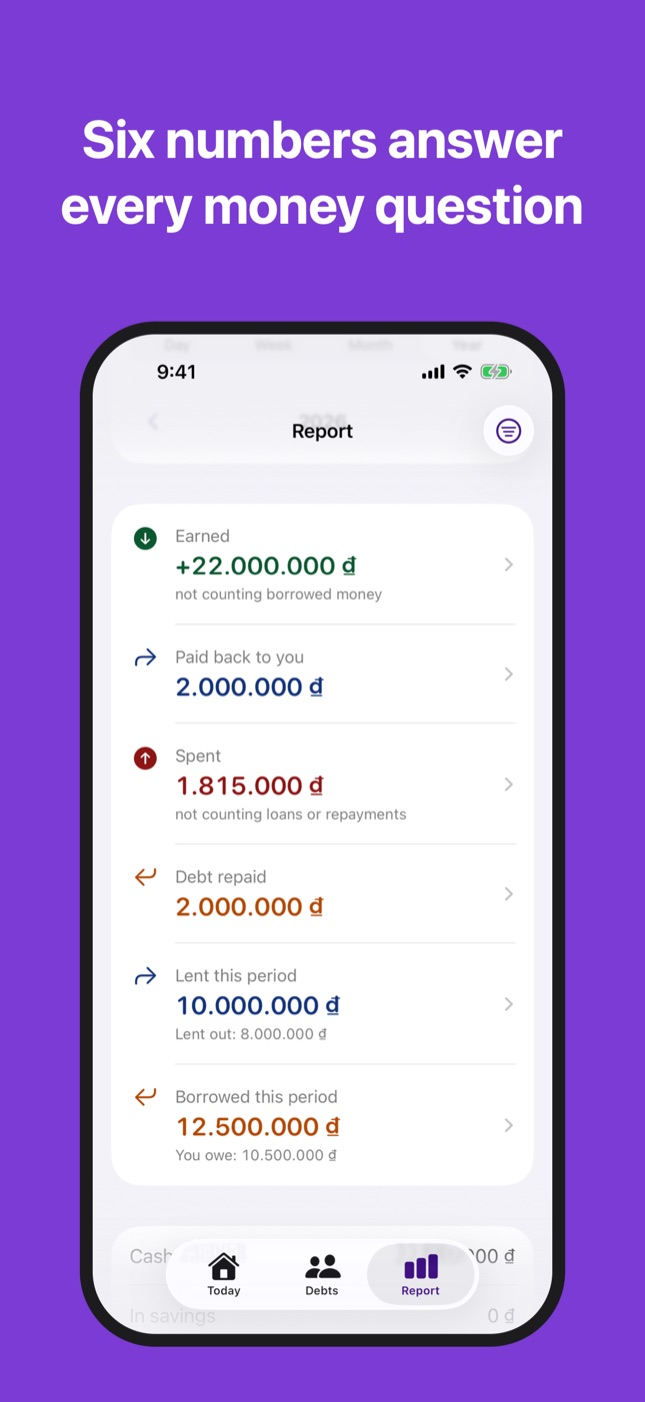
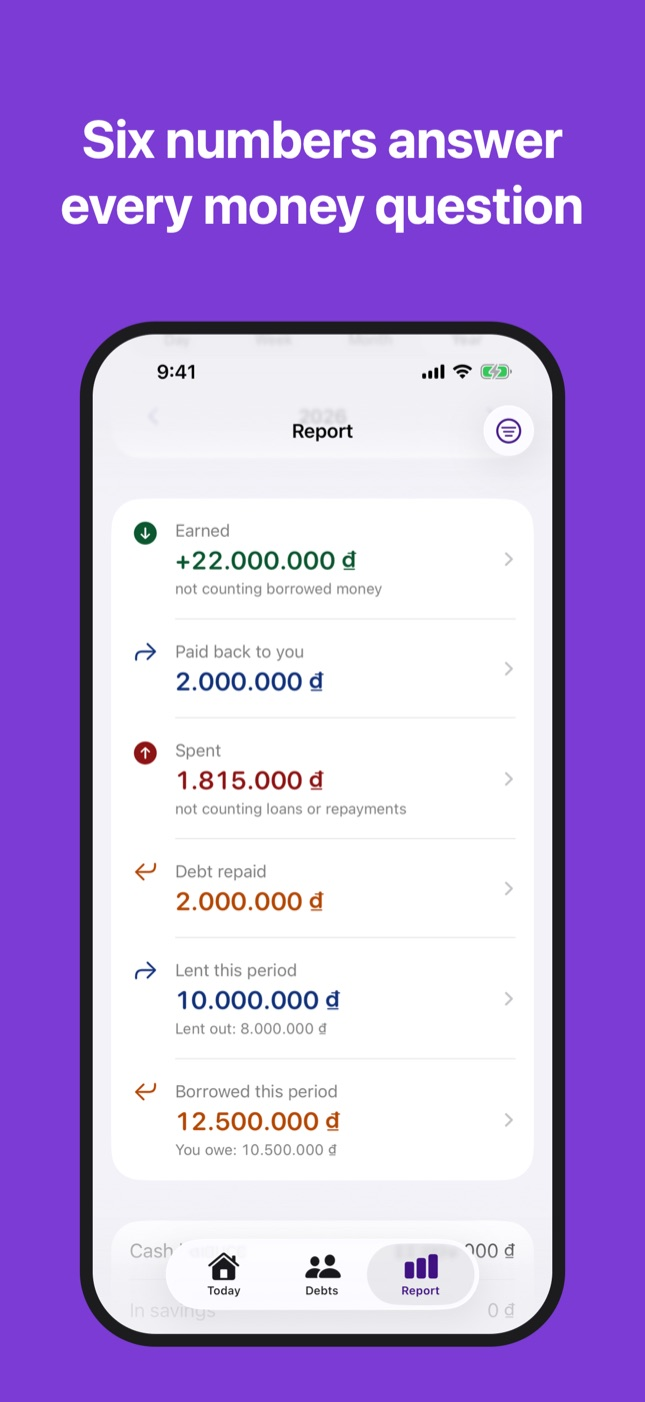
Website for 1.7.1: the pages still said Vietnamese dong only, but a wallet can now hold any currency
Features and FAQ (vi, en) describe one currency per wallet, no conversion; FAQ vi gains the currency question.
Built from APP_FACTORY_X 13_APPS/010_SoTayTien/PUBLISHING/06_WEBSITE/docs, published at the root and in docs/.

diff --git a/docs/index.html b/docs/index.html
@@ -8,7 +8,7 @@
 <meta name="viewport" content="width=device-width, initial-scale=1">
 <meta name="color-scheme" content="light dark">
 <title>Sổ Tay Tiền - Cho mượn và đi vay rõ ràng</title>
-<meta name="description" content="Ai đang nợ bạn? Bạn đang nợ ai? Ghi từng khoản trong 5 giây, quên ngày nào nhập bù ngày đó. Không tài khoản, không quảng cáo, dữ liệu nằm trên máy bạn.">
+<meta name="description" content="Ai đang nợ bạn? Bạn đang nợ ai? Ghi từng khoản trong vài giây, mỗi ví một tiền tệ: đồng, đô, yên. Không tài khoản, không quảng cáo, dữ liệu nằm trên máy bạn.">
 <link rel="stylesheet" href="style.css">
 <link rel="icon" href="assets/icon.png">
 <link rel="alternate" hreflang="vi" href="index.html">
@@ -29,7 +29,7 @@
     <img class="app-icon" src="assets/icon.png" alt="Biểu tượng Sổ Tay Tiền" width="128" height="128">
     <h1>Sổ Tay Tiền: Thu Chi &amp; Nợ</h1>
     <p class="lead">Cho mượn và đi vay rõ ràng</p>
-    <p>Ai đang nợ bạn? Bạn đang nợ ai? Ghi từng khoản trong 5 giây, quên ngày nào nhập bù ngày đó. Không tài khoản, không quảng cáo, dữ liệu nằm trên máy bạn.</p>
+    <p>Ai đang nợ bạn? Bạn đang nợ ai? Ghi từng khoản trong vài giây, mỗi ví một tiền tệ: đồng, đô, yên. Không tài khoản, không quảng cáo, dữ liệu nằm trên máy bạn.</p>
     <p><a class="store-note" href="https://apps.apple.com/us/app/s%E1%BB%95-tay-ti%E1%BB%81n-thu-chi-n%E1%BB%A3/id6812595332" target="_blank" rel="noopener">Tải trên App Store</a></p>
   </section>
 
@@ -57,8 +57,8 @@
       <p>Tiền cho mượn không bị tính vào chi tiêu, tiền đi mượn không bị tính vào thu nhập. Vì vậy con số "tháng này tôi tiêu bao nhiêu" là con số thật.</p>
     </div>
     <div class="card">
-      <h2>Nhiều ví, một con số tổng</h2>
-      <p>Tiền mặt, ngân hàng, ví điện tử — tuỳ bạn đặt. Số lớn trên màn hình đầu là tổng mọi ví; chạm vào để xem từng ví. Dùng một ví thì mọi thứ y như cũ.</p>
+      <h2>Nhiều ví, nhiều tiền tệ</h2>
+      <p>Tiền mặt, ngân hàng, ví điện tử — tuỳ bạn đặt. Số lớn trên màn hình đầu là tổng các ví; chạm vào để xem từng ví. Mỗi ví một tiền tệ: đồng, đô la, yên… và mỗi tiền tệ được cộng riêng, app không tự quy đổi. Dùng một ví thì mọi thứ y như cũ.</p>
     </div>
     <div class="card">
       <h2>Chuyển ví không phải là tiêu tiền</h2>

diff --git a/index.html b/index.html
@@ -8,7 +8,7 @@
 <meta name="viewport" content="width=device-width, initial-scale=1">
 <meta name="color-scheme" content="light dark">
 <title>Sổ Tay Tiền - Cho mượn và đi vay rõ ràng</title>
-<meta name="description" content="Ai đang nợ bạn? Bạn đang nợ ai? Ghi từng khoản trong 5 giây, quên ngày nào nhập bù ngày đó. Không tài khoản, không quảng cáo, dữ liệu nằm trên máy bạn.">
+<meta name="description" content="Ai đang nợ bạn? Bạn đang nợ ai? Ghi từng khoản trong vài giây, mỗi ví một tiền tệ: đồng, đô, yên. Không tài khoản, không quảng cáo, dữ liệu nằm trên máy bạn.">
 <link rel="stylesheet" href="style.css">
 <link rel="icon" href="assets/icon.png">
 <link rel="alternate" hreflang="vi" href="index.html">
@@ -29,7 +29,7 @@
     <img class="app-icon" src="assets/icon.png" alt="Biểu tượng Sổ Tay Tiền" width="128" height="128">
     <h1>Sổ Tay Tiền: Thu Chi &amp; Nợ</h1>
     <p class="lead">Cho mượn và đi vay rõ ràng</p>
-    <p>Ai đang nợ bạn? Bạn đang nợ ai? Ghi từng khoản trong 5 giây, quên ngày nào nhập bù ngày đó. Không tài khoản, không quảng cáo, dữ liệu nằm trên máy bạn.</p>
+    <p>Ai đang nợ bạn? Bạn đang nợ ai? Ghi từng khoản trong vài giây, mỗi ví một tiền tệ: đồng, đô, yên. Không tài khoản, không quảng cáo, dữ liệu nằm trên máy bạn.</p>
     <p><a class="store-note" href="https://apps.apple.com/us/app/s%E1%BB%95-tay-ti%E1%BB%81n-thu-chi-n%E1%BB%A3/id6812595332" target="_blank" rel="noopener">Tải trên App Store</a></p>
   </section>
 
@@ -57,8 +57,8 @@
       <p>Tiền cho mượn không bị tính vào chi tiêu, tiền đi mượn không bị tính vào thu nhập. Vì vậy con số "tháng này tôi tiêu bao nhiêu" là con số thật.</p>
     </div>
     <div class="card">
-      <h2>Nhiều ví, một con số tổng</h2>
-      <p>Tiền mặt, ngân hàng, ví điện tử — tuỳ bạn đặt. Số lớn trên màn hình đầu là tổng mọi ví; chạm vào để xem từng ví. Dùng một ví thì mọi thứ y như cũ.</p>
+      <h2>Nhiều ví, nhiều tiền tệ</h2>
+      <p>Tiền mặt, ngân hàng, ví điện tử — tuỳ bạn đặt. Số lớn trên màn hình đầu là tổng các ví; chạm vào để xem từng ví. Mỗi ví một tiền tệ: đồng, đô la, yên… và mỗi tiền tệ được cộng riêng, app không tự quy đổi. Dùng một ví thì mọi thứ y như cũ.</p>
     </div>
     <div class="card">
       <h2>Chuyển ví không phải là tiêu tiền</h2>

diff --git a/docs/en/index.html b/docs/en/index.html
@@ -8,7 +8,7 @@
 <meta name="viewport" content="width=device-width, initial-scale=1">
 <meta name="color-scheme" content="light dark">
 <title>Moneybook - Expenses, loans &amp; who owes you</title>
-<meta name="description" content="Who owes you? Who do you owe? Note each entry in seconds, and if you forget a day, add it to that day later. No account, no ads, your data stays on your iPhone.">
+<meta name="description" content="Who owes you? Who do you owe? Note each entry in seconds, one currency per wallet: dong, dollars, yen. No account, no ads, your data stays on your iPhone.">
 <link rel="stylesheet" href="../style.css">
 <link rel="icon" href="../assets/icon.png">
 <link rel="alternate" hreflang="vi" href="../index.html">
@@ -29,7 +29,7 @@
     <img class="app-icon" src="../assets/icon.png" alt="Moneybook icon" width="128" height="128">
     <h1>Moneybook: Spend, Lend &amp; Owe</h1>
     <p class="lead">Expenses, loans &amp; who owes you</p>
-    <p>Who owes you? Who do you owe? Note each entry in seconds, and if you forget a day, add it to that day later. No account, no ads, your data stays on your iPhone.</p>
+    <p>Who owes you? Who do you owe? Note each entry in seconds, one currency per wallet: dong, dollars, yen. No account, no ads, your data stays on your iPhone.</p>
     <p><a class="store-note" href="https://apps.apple.com/us/app/s%E1%BB%95-tay-ti%E1%BB%81n-thu-chi-n%E1%BB%A3/id6812595332" target="_blank" rel="noopener">Download on the App Store</a></p>
   </section>
 
@@ -73,8 +73,8 @@
       <p>Off until you turn it on, at the time you choose. On days you have written something down, it stays silent.</p>
     </div>
     <div class="card">
-      <h2>Many wallets, one total</h2>
-      <p>Cash, bank, e-wallet. The big number is every wallet together; tap it to see each one. Moving money between wallets is neither spending nor income.</p>
+      <h2>Many wallets, many currencies</h2>
+      <p>Cash, bank, e-wallet. The big number is your wallets together; tap it to see each one. One currency per wallet, dong, dollars, yen and more, each added up on its own with no conversion. Moving money between wallets is neither spending nor income.</p>
     </div>
     <div class="card">
       <h2>Your own categories</h2>

diff --git a/en/index.html b/en/index.html
@@ -8,7 +8,7 @@
 <meta name="viewport" content="width=device-width, initial-scale=1">
 <meta name="color-scheme" content="light dark">
 <title>Moneybook - Expenses, loans &amp; who owes you</title>
-<meta name="description" content="Who owes you? Who do you owe? Note each entry in seconds, and if you forget a day, add it to that day later. No account, no ads, your data stays on your iPhone.">
+<meta name="description" content="Who owes you? Who do you owe? Note each entry in seconds, one currency per wallet: dong, dollars, yen. No account, no ads, your data stays on your iPhone.">
 <link rel="stylesheet" href="../style.css">
 <link rel="icon" href="../assets/icon.png">
 <link rel="alternate" hreflang="vi" href="../index.html">
@@ -29,7 +29,7 @@
     <img class="app-icon" src="../assets/icon.png" alt="Moneybook icon" width="128" height="128">
     <h1>Moneybook: Spend, Lend &amp; Owe</h1>
     <p class="lead">Expenses, loans &amp; who owes you</p>
-    <p>Who owes you? Who do you owe? Note each entry in seconds, and if you forget a day, add it to that day later. No account, no ads, your data stays on your iPhone.</p>
+    <p>Who owes you? Who do you owe? Note each entry in seconds, one currency per wallet: dong, dollars, yen. No account, no ads, your data stays on your iPhone.</p>
     <p><a class="store-note" href="https://apps.apple.com/us/app/s%E1%BB%95-tay-ti%E1%BB%81n-thu-chi-n%E1%BB%A3/id6812595332" target="_blank" rel="noopener">Download on the App Store</a></p>
   </section>
 
@@ -73,8 +73,8 @@
       <p>Off until you turn it on, at the time you choose. On days you have written something down, it stays silent.</p>
     </div>
     <div class="card">
-      <h2>Many wallets, one total</h2>
-      <p>Cash, bank, e-wallet. The big number is every wallet together; tap it to see each one. Moving money between wallets is neither spending nor income.</p>
+      <h2>Many wallets, many currencies</h2>
+      <p>Cash, bank, e-wallet. The big number is your wallets together; tap it to see each one. One currency per wallet, dong, dollars, yen and more, each added up on its own with no conversion. Moving money between wallets is neither spending nor income.</p>
     </div>
     <div class="card">
       <h2>Your own categories</h2>

diff --git a/docs/support.html b/docs/support.html
@@ -51,6 +51,10 @@
     <summary>Làm sao sao lưu và khôi phục sổ?</summary>
     <p>Ở màn Hôm nay, chạm biểu tượng bánh răng để mở Thiết lập, chọn <strong>Sao lưu &amp; Khôi phục</strong>. Có hai đường. <strong>iCloud</strong>: tự động, vào iCloud riêng của bạn; app giữ 5 bản gần nhất. <strong>Tệp</strong>: Sao lưu ra tệp tạo tệp JSON (khôi phục được trọn vẹn) và CSV (mở bằng Excel, Google Sheets), bạn tự chọn nơi gửi; Khôi phục từ tệp luôn cho xem trước và hoàn tác được.</p>
   </details>
+  <details>
+    <summary>App dùng được những tiền tệ nào?</summary>
+    <p>Mỗi ví một tiền tệ. Sổ mới tính bằng đồng Việt Nam; cần thì thêm ví đô la, euro, yên hay bất kỳ tiền tệ nào. Mỗi tiền tệ được cộng riêng: app không giữ tỷ giá và không tự quy đổi. Đổi tiền giữa hai ví thì ghi cả số đưa đi và số nhận được.</p>
+  </details>
 </main>
 <footer>
   <p>Cập nhật lần cuối: 02/11/2026 · © 2026 Dương Long Hồ ·

diff --git a/support.html b/support.html
@@ -51,6 +51,10 @@
     <summary>Làm sao sao lưu và khôi phục sổ?</summary>
     <p>Ở màn Hôm nay, chạm biểu tượng bánh răng để mở Thiết lập, chọn <strong>Sao lưu &amp; Khôi phục</strong>. Có hai đường. <strong>iCloud</strong>: tự động, vào iCloud riêng của bạn; app giữ 5 bản gần nhất. <strong>Tệp</strong>: Sao lưu ra tệp tạo tệp JSON (khôi phục được trọn vẹn) và CSV (mở bằng Excel, Google Sheets), bạn tự chọn nơi gửi; Khôi phục từ tệp luôn cho xem trước và hoàn tác được.</p>
   </details>
+  <details>
+    <summary>App dùng được những tiền tệ nào?</summary>
+    <p>Mỗi ví một tiền tệ. Sổ mới tính bằng đồng Việt Nam; cần thì thêm ví đô la, euro, yên hay bất kỳ tiền tệ nào. Mỗi tiền tệ được cộng riêng: app không giữ tỷ giá và không tự quy đổi. Đổi tiền giữa hai ví thì ghi cả số đưa đi và số nhận được.</p>
+  </details>
 </main>
 <footer>
   <p>Cập nhật lần cuối: 02/11/2026 · © 2026 Dương Long Hồ ·

diff --git a/docs/en/support.html b/docs/en/support.html
@@ -49,7 +49,7 @@
   </details>
   <details>
     <summary>Which currencies does it support?</summary>
-    <p>Vietnamese dong only. Amounts are written the Vietnamese way, like 1.000.000 ₫, in both languages. The app has no exchange rates and converts nothing.</p>
+    <p>One currency per wallet. A new book counts in Vietnamese dong; add a wallet in dollars, euros, yen or any other currency when you need one. Each currency is added up on its own: the app has no exchange rates and converts nothing. To change money between two wallets, note both the amount sent and the amount received.</p>
   </details>
   <details>
     <summary>How do I back up and restore my book?</summary>

diff --git a/en/support.html b/en/support.html
@@ -49,7 +49,7 @@
   </details>
   <details>
     <summary>Which currencies does it support?</summary>
-    <p>Vietnamese dong only. Amounts are written the Vietnamese way, like 1.000.000 ₫, in both languages. The app has no exchange rates and converts nothing.</p>
+    <p>One currency per wallet. A new book counts in Vietnamese dong; add a wallet in dollars, euros, yen or any other currency when you need one. Each currency is added up on its own: the app has no exchange rates and converts nothing. To change money between two wallets, note both the amount sent and the amount received.</p>
   </details>
   <details>
     <summary>How do I back up and restore my book?</summary>
